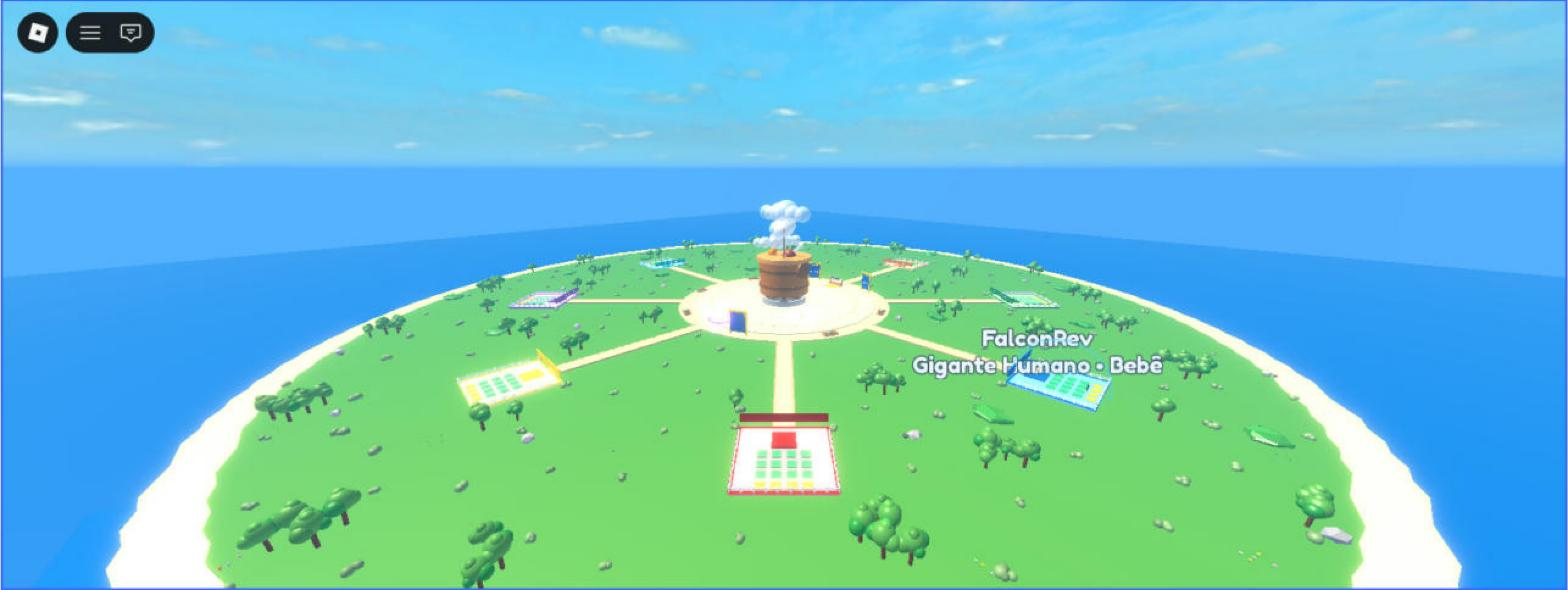
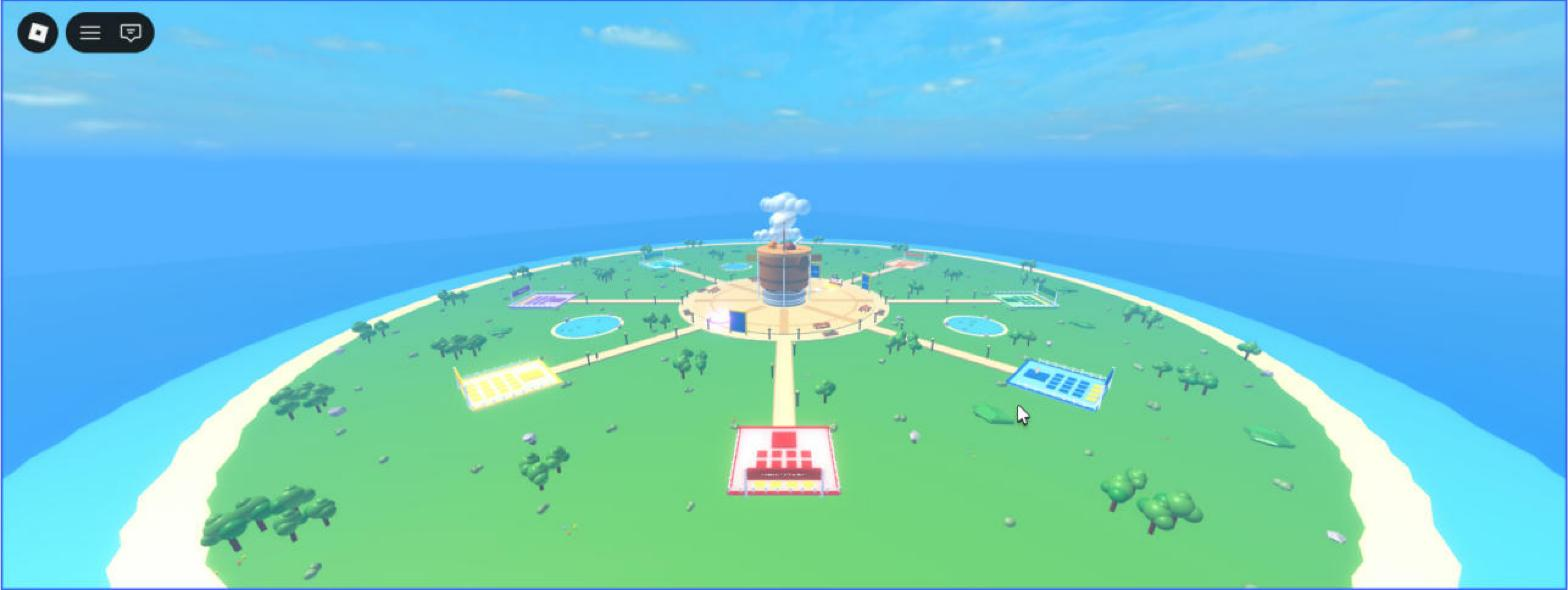
Fase 1.2 rodada 2: marco no pedestal com bandeiras, banquete, postes, lagos, placas nos fundos, mar sem água de terreno
- orçamento: 175-430k triângulos e 28-41 draw calls por vista (antes ~300 draw calls só da água de terreno)
- gates: 24/24 rotas, 0/285 flutuando, faixa de drops livre; evidências e fotos com avatar

diff --git a/docs/qa/FASE1_MUNDO_EVIDENCIAS.md b/docs/qa/FASE1_MUNDO_EVIDENCIAS.md
@@ -4,50 +4,57 @@ Estilo: cartoon pintado (GAME_BRIEF §5). Guia: `make-map/styles/simulator.md`. 
 (`src/shared/LightingRecipes.lua`). Mundo gerado por código a cada início de servidor (`src/server/World.lua`, semente fixa)
 com o MapKit do fwjelaa vendorizado (`src/vendor/server/MapKit`).
 
-## O que foi construído
-- **Ilha** de grama (raio 470) com praia e água de terreno só perto da ilha (1.400 studs) + peça plana até o horizonte.
-- **Praça** em dois degraus (r 138 / r 120), com anel e 8 faixas-guia no piso apontando para o centro.
-- **Marco:** Caldeirão do Banquete no centro (escala 1,7; ~120 studs com o vapor): fogueira de pedra, caldeirão de cobre,
-  sopa, coxa, cenoura e concha gigantes, vapor de nuvens.
-- **Loja** (norte, barraca + plataforma Neon), **evento** (sul, pedestal Neon), **3 placares** entre os caminhos,
-  5 canteiros com flores.
-- **8 caminhos** de 14 studs com bordas, da base até a praça.
-- **8 bases** com cor-tema (piso claro com studs, borda, slots e placa na cor-tema, cerca branca, arbustos na entrada).
-- **Natureza:** 133 árvores em grupos, 170 arbustos, 162 flores, pedras e 14 colinas baixas; nada a menos de 6 studs
-  dos caminhos.
+## O que existe agora (depois da rodada de correção 2)
+- **Ilha** de grama (raio 470) com praia, faixa de água rasa e mar até o horizonte, tudo de peça (sem água de terreno).
+- **Praça** em dois degraus (r 138 / r 120), anel e 8 faixas-guia no piso apontando para o centro.
+- **Marco:** Caldeirão do Banquete sobre **pedestal de pedra de 3 degraus**, cobre, sopa, coxa, cenoura e concha
+  gigantes, vapor de nuvens; **4 bandeiras** de 64 studs nas cores das bases (r 34, fora do caldeirão e da faixa de drops).
+- **4 mesas de banquete** com toalha, bancos e comida; 5 canteiros; loja (norte), evento (sul), 3 placares.
+- **Postes de luz:** 2 em cada entrada de caminho na praça + ao longo de todos os caminhos (a cada ~45 studs, alternando).
+- **8 caminhos** de 14 studs com bordas.
+- **8 bases** com cor-tema (piso claro, borda, slots e pedestal na cor-tema, cerca branca). **Placa nos fundos**, alta e
+  virada para o centro: não tapa mais a vista do caldeirão.
+- **3 lagos** com vitórias-régias e pedras; árvores em grupos, arbustos, flores, pedras e colinas baixas.
+- Névoa mais forte (Atmosphere Density 0,3 / Haze 1,2) para dar profundidade.
 
 ## Verificação (place de teste, Play)
 | Gate | Resultado |
 |---|---|
 | Verificador Luau | overall PASS (45 arquivos) |
 | Caminhada (PathfindingService, agente raio 2 / altura 5) | **24/24 rotas** (8 bases → loja, faixa de drops, evento) |
-| Props flutuando/enterrados (raycast do pivô) | **0 de 495** |
+| Props flutuando/enterrados (raycast do pivô) | **0 de 285** |
 | Peças não ancoradas no mapa | **0** |
-| Peças no mapa | 5.183 (alvo < 10.000) |
-| Contrato com o jogo | `ShopPad`, `EventPad`, `Leaderboard1..3` em `Workspace.Map`; drops em r 50–82 (+14), fora do caldeirão (r ≤ 29) e da loja/evento (r ≥ 98) |
+| Decoração com colisão (flores, arbustos, nuvens) | **0** |
+| Obstáculos sólidos na faixa de drops (r 36–96) | **0** |
+| Bandeiras fora do caldeirão | mastro r 34 > raio do caldeirão 32,3 |
+| Peças no mapa | 4.734 (alvo < 10.000) |
 
-**Orçamento por vista** (SceneAnalysisService, sem sombras; alvo celular 500k triângulos / 500 draw calls):
+**Orçamento por vista** (SceneAnalysisService, sem sombras, qualidade fixada; alvo celular 500k triângulos / 500 draw calls):
 
-| Vista | Triângulos | Draw calls |
+| Vista | Qualidade 5 | Qualidade 10 |
 |---|---|---|
-| Saindo da base, olhando o centro | 403.462 | 291 |
-| Aérea | 394.682 | 295 |
-| Praça | 375.282 | 267 |
-| Natureza | 442.988 | 356 |
+| Saindo da base, olhando o centro | 272k / 31 draws | 287k / 41 draws |
+| Aérea | 394k / 34 | 430k / 38 |
+| Praça | 175k / 28 | 188k / 33 |
+| Natureza (nordeste) | 314k / 28 | 345k / 32 |
+| Natureza (noroeste) | 347k / 33 | 379k / 38 |
+
+Medido antes da troca da água: a água de terreno custava ~290k triângulos e ~300 draw calls por vista. Foi removida.
 
 ## Fotos (`docs/qa/shots/fase1/`)
-`00_antes.jpg` (antes: campo plano) · `01_vista_da_base.jpg` · `02_aerea.jpg` · `03_praca.jpg` · `04_base_amarela.jpg` ·
-`05_base_verde_corrigida.jpg`. Capturas com a UI escondida (câmera travada no cliente).
+`00_antes.jpg` (antes: campo plano) · `01_caminho_com_avatar.jpg` · `02_aerea.jpg` · `03_praca_banquete.jpg` ·
+`04_dentro_da_base.jpg` · `05_chegando_na_base.jpg`. Capturas com o avatar R15 no quadro e com a UI de tela e os letreiros
+flutuantes (nomes, drops, chuva de comida do evento) desligados **só no cliente da foto**. As fotos da primeira versão
+estão em `rodada1/`.
 
-## Rodada de correção 1 (feita antes do painel)
-Borda da ilha facetada (4 cópias giradas do disco); pedras demais e pequenas (espaçamento 80→140, escala maior);
-caminho e praça brancos demais (tons de areia mais quentes); caldeirão pequeno e escuro (escala 1,7, cobre);
-verso dos placares escuro (azul); piso da praça vazio (8 faixas-guia); slots sumindo na base verde (slots na cor-tema);
-verso da placa da base vazio (texto nos dois lados).
+## Histórico das rodadas
+| Rodada | O que mudou | Nota do painel |
+|---|---|---|
+| 1 (antes do painel) | borda da ilha arredondada, menos pedras, caminho/praça mais quentes, caldeirão 1,7× e de cobre, placares azuis, faixas no piso, slots na cor-tema, placa nos dois lados | 5,0 (mediana [1,1,1,1,1,1]) |
+| 2 | placa para os fundos; pedestal e bandeiras no marco; mesas de banquete; postes nas entradas e nos caminhos; 3 lagos; névoa; mar sem água de terreno; fotos com avatar e sem letreiros | (este painel) |
 
 ## Não feito / limites
-- Terreno com relevo e lago/rio, e props do Asset Pack: ficam para uma próxima rodada (as colinas são de peças).
-- O marco é feito de primitivas (sem malha nem textura pintada). As texturas pintadas entram com os modelos na Fase 2.
-- Desempenho medido só no PC.
-- O aviso "Tecnologia de migração de iluminação" aparece no Studio ao dar Play: é do Studio, porque o projeto
-  deixou de usar `Technology` (obsoleta).
+- O marco e os props são primitivas sem textura pintada; a textura pintada entra com os modelos na Fase 2.
+- O texto branco da placa da base amarela tem pouco contraste (`05_chegando_na_base.jpg`). Próximo ajuste: contorno escuro no texto.
+- Desempenho medido só no PC (qualidade fixada em 5 e 10). Falta o teste em celular de verdade.
+- Ao dar Play, o Studio mostra o aviso "Tecnologia de migração de iluminação", porque o projeto deixou de usar `Technology` (obsoleta).
